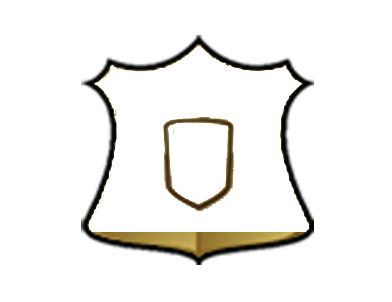
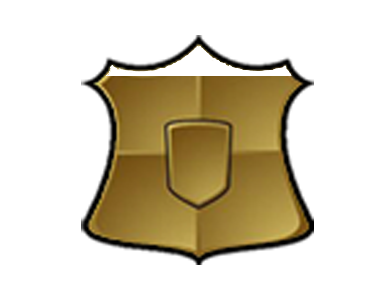
#154 #333 Done!, Ready for test
Now, The pauseMenu will only shown in blue color, I must to take the
caracter team to change it (I will be have done it for tomorrow)

Changed region(s): [[0.2143, 0.2384, 0.7959, 0.7748]]

diff --git a/ChicknDestroy/unity/Mainmenu Scene/Assets/Scripts/GUI/HUD.cs b/ChicknDestroy/unity/Mainmenu Scene/Assets/Scripts/GUI/HUD.cs
@@ -5,6 +5,7 @@ public class HUD : MonoBehaviour{
 	private static int MESSAGE_POOL = 10;
 	
 	private bool current_player_robotic;
+	private string team;
 	
 	private PlayerInterface player;
 	private GameInterface game;
@@ -40,11 +41,16 @@ public class HUD : MonoBehaviour{
 		this.robotic = false;
 		this.philo = false;
 		
+		this.current_player_robotic = true;
+		
+		if (this.current_player_robotic == true) this.team = "robot";
+		else this.team = "philo";
+		
 		int isegment = Screen.width/10;
 		
 		this.weapons = new SpriteWeaponControl(new Rect(10,10,100,40));
 		
-		this.life = new Lifebar(new Vector2((Screen.width/2)-100,20),
+		this.life = new Lifebar(new Vector2((Screen.width/2)-180,20),
 			new Vector2(200,60),
 			"LifeBar/life_bar_",
 			new Vector2(0,0),
@@ -54,25 +60,24 @@ public class HUD : MonoBehaviour{
 		this.bg_life = new Sprite(new Rect(this.life.getXY().x-10,this.life.getXY().y-13,
 			this.life.getSize().x+20,this.life.getSize().y+10),"LifeBar/hudVida");
 		
-		this.shield = new Lifebar(new Vector2(this.life.getXY().x+(this.life.getSize().x+10),this.life.getXY ().y),
-			new Vector2(40,40),
-			"Shield/shield_",
+		this.shield = new Lifebar(new Vector2(this.life.getXY().x+(this.life.getSize().x+20),this.life.getXY ().y-7),
+			new Vector2(100,100),
+			"escudo/escudo",
 			new Vector2(0,0),
-			21, // n-Images of the Shield
-			50, // Barrier max points
+			10, // n-Images of the Shield
+			100, // Barrier max points
 			0); // barrier current points.
 		this.bg_shield = new Sprite(new Rect(this.shield.getXY ().x-5,this.shield.getXY ().y-5,
-			this.shield.getSize ().x+10,this.shield.getSize ().y+10),"Shield/hudEscudo");
+			this.shield.getSize ().x+10,this.shield.getSize ().y+10),"escudo/hudEscudo");
 		
-		/*this.pause_menu = new PauseMenu(this,
-			new Vector2(100,40), // Origin
-			new Vector2(500,500), // end
-			new Vector2(0,20),	// Deviation
-			"PauseMenu", // Menu layout
-			"titulo", // Menu Title
-			"button_"); // Button pattern.*/
+		this.pause_menu = new PauseMenu(this,
+			new Vector2((Screen.width/2)-isegment+10,Screen.height/5), // Origin
+			new Vector2((Screen.width/2)+2*isegment,(int)(Screen.height*3.5)/5), // end
+			new Vector2(0,50),	// Deviation
+			"pausa/pauseMenu"+this.team, // Menu layout
+			this.team); // Team
 		
-		this.game_points = new Points(new Vector2(this.life.getXY().x+this.life.getSize().x+isegment,20),
+		this.game_points = new Points(new Vector2(this.bg_shield.getXY().x+this.bg_shield.getSize ().x+20,20),
 			new Vector2(20,20),
 			"Numbers/",
 			new Vector2(20,0),
@@ -93,7 +98,6 @@ public class HUD : MonoBehaviour{
 	
 	// Use this for initialization
 	void Start () {
-		Debug.Log ("Starting HUD debug message");
 		this.skin = new GUISkin();
 		
 		initComponents();
@@ -105,11 +109,13 @@ public class HUD : MonoBehaviour{
 	void OnGUI() {
 		GUI.skin = this.skin;
 		this.bg_life.render();
+		this.bg_shield.render ();
 		
 		// Player Information
 		this.weapons.render ();
 		
 		this.life.render();
+		this.shield.render ();
 		this.game_points.render(this.player.getPlayerPoints());
 		
 		this.pause_button.render();
@@ -117,12 +123,21 @@ public class HUD : MonoBehaviour{
 		this.mes.render();
 		
 		//if(isPaused())this.pause_menu.render();
-		if(isPaused())stub_pauseMenu();
+		if(isPaused())pauseMenu();
 	}
 	
 	// Update is called once per frame
 	void Update () {
 		//GUI.Label(rhealth,player.getHealthPoints().ToString());
+	}
+	private void pauseMenu() {
+		this.pause_menu.setVisible(true);
+		this.pause_menu.render();
+	}
+	
+	public void resume() {
+		this.pause_menu.setVisible (false);
+		this.pause_button.setToggled (false);
 	}
 	
 	void stub_pauseMenu() {
@@ -137,10 +152,6 @@ public class HUD : MonoBehaviour{
 	
 	public bool isPaused() {
 		return this.pause_button.isToggled();
-	}
-	
-	public void resume() {
-		this.pause_button.setToggled(false);
 	}
 	
 	// Notify section.

diff --git a/ChicknDestroy/unity/Mainmenu Scene/Assets/Scripts/GUI/PauseMenu.cs b/ChicknDestroy/unity/Mainmenu Scene/Assets/Scripts/GUI/PauseMenu.cs
@@ -3,34 +3,64 @@ using System;
 
 public class PauseMenu : MonoBehaviour
 {
+	private HUD hud;
 	private Sprite menu;
-	private Sprite title;
 	
-	private SpriteButton quit_menu_button;
+	private SpriteButton resume_button;
+	private SpriteButton save_button;
+	private SpriteButton load_button;
 	private SpriteButton quit_game_button;
 	
 	private Vector2 origin;
 	private Vector2 end;
 	private bool visible;
-	private HUD hud;
-	public PauseMenu (HUD hud, Vector2 origin, Vector2 end,String menu, String title, String b_pattern) {
+	public PauseMenu (HUD hud,Vector2 origin, Vector2 end,Vector2 dev,String menu,String team) {
 		this.hud = hud;
 		this.origin = origin;
 		this.end = end;
 		this.visible = false;
 		this.menu = new Sprite(new Rect(origin.x,origin.y,end.x-origin.x,end.y-origin.y),menu);
-		this.title = new Sprite(new Rect((end.x-origin.x)/2,origin.y+10,(end.x-origin.x)/3,20),title);
+		
+		int x=Screen.width/2,y = Screen.height/2;
+		
+		this.resume_button = new SpriteButton(new Rect(x-50,origin.y+2*dev.y,100,40),
+			"pausa/resume"+team,
+			"pausa/resume"+team,
+			new ResumeAction(),
+			KeyCode.R);
+		this.save_button = new SpriteButton(new Rect(x-50,this.resume_button.getXY ().y+dev.y,100,40),
+			"pausa/save"+team,
+			"pausa/save"+team);
+		this.load_button = new SpriteButton(new Rect(x-50,this.save_button.getXY ().y+dev.y,100,40),
+			"pausa/load"+team,
+			"pausa/load"+team);
+		this.quit_game_button = new SpriteButton(new Rect(x-50,this.load_button.getXY ().y+dev.y,100,40),
+			"pausa/quit"+team,
+			"pausa/quit"+team,
+			new ChangeLevelAction(),
+			KeyCode.Q);
+	}
+	
+	public void reinit_buttons() {
+		this.resume_button.setToggled(false);
+		this.quit_game_button.setToggled (false);
 	}
 	
 	public void render() {
-		this.menu.render();
-		this.title.render();
-		
-		// button control-render logic.
+		if(isVisible ()) {
+			if(this.resume_button.isToggled ())resumeToggled();
+			this.menu.render();
+			// button control-render logic.
+			this.resume_button.render();
+			this.save_button.render ();
+			this.load_button.render ();
+			this.quit_game_button.render();
+		}
 	}
 	
-	private void quitMenuToggled() {
-		
+	private void resumeToggled() {
+		reinit_buttons ();
+		this.hud.resume ();
 	}
 	
 	private void quitGameToggled() {
@@ -39,6 +69,8 @@ public class PauseMenu : MonoBehaviour
 	
 	public void setVisible(bool visible) {
 		this.visible = visible;
+		this.resume_button.setVisible (visible);
+		this.quit_game_button.setVisible (visible);
 	}
 	public bool isVisible() {
 		return visible;

diff --git a/ChicknDestroy/unity/Mainmenu Scene/Assets/Scripts/GUI/Lifebar.cs b/ChicknDestroy/unity/Mainmenu Scene/Assets/Scripts/GUI/Lifebar.cs
@@ -20,6 +20,7 @@ public class Lifebar : SpriteGroup{
 		this.max_life = max_life;
 		this.current_life = clife;
 		this.irender = calculateIRender();
+		if (this.irender>=this.n)this.irender = this.n-1;
 	}
 	
 	private int calculateIRender() {
